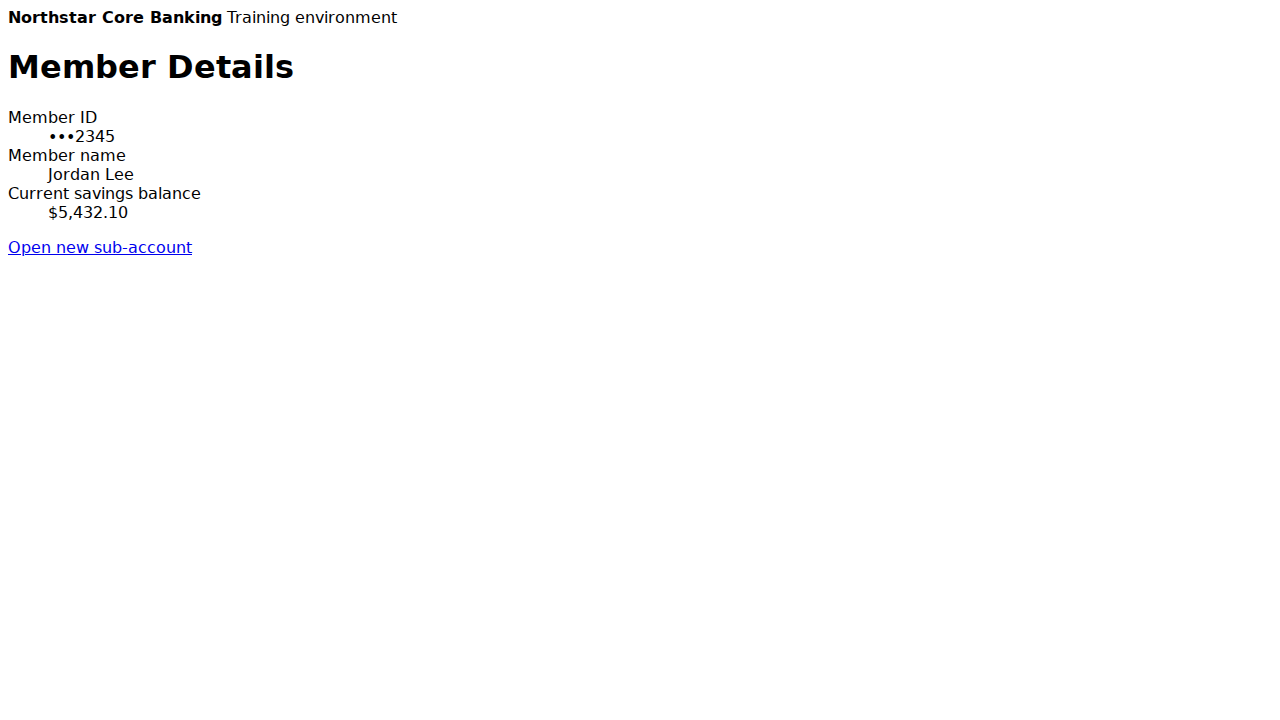
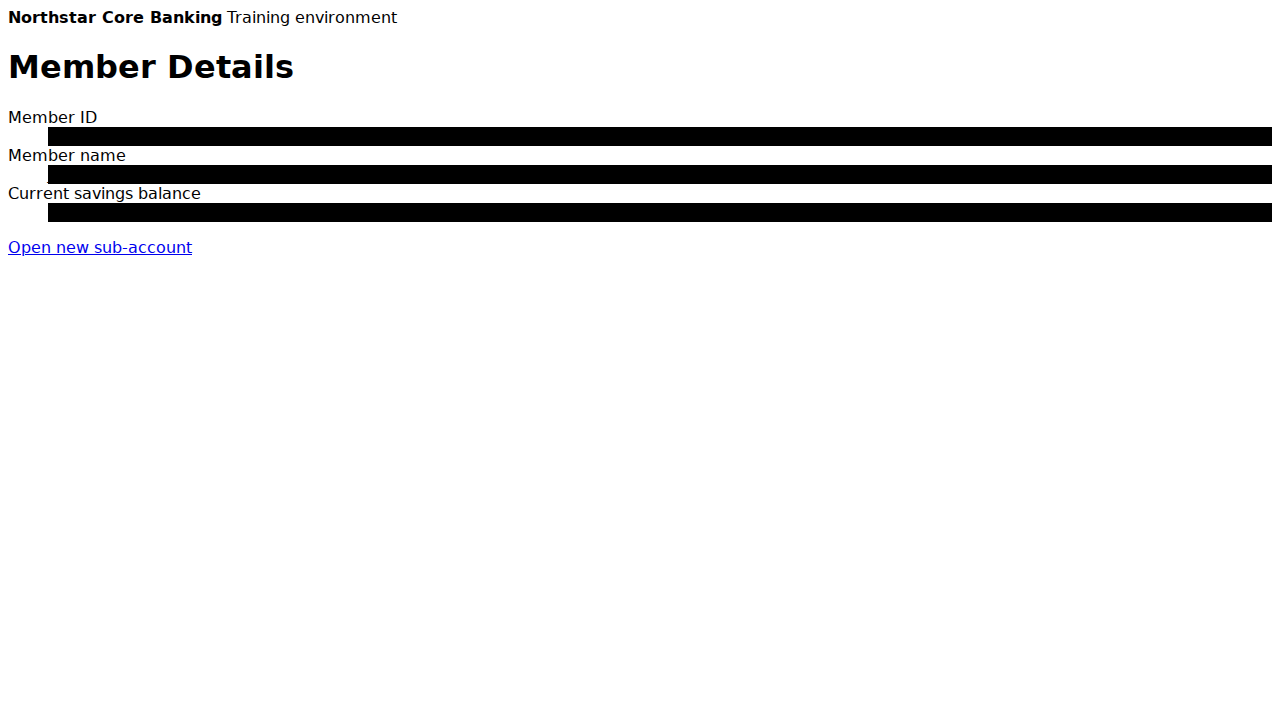
Tighten origin checks and evidence masking

Changed region(s): [[0.0312, 0.1528, 1.0, 0.3056]]

diff --git a/src/agent/execute.ts b/src/agent/execute.ts
@@ -1,29 +1,37 @@
 import type { Page } from "playwright";
 import type { AgentDecision } from "./decide.js";
 
-const allowedOrigin = "http://127.0.0.1:4173";
-
 export async function executeDecision(
     page: Page,
     decision: AgentDecision,
+    allowedOrigin: string,
 ): Promise<void> {
     const currentOrigin = new URL(page.url()).origin;
 
     if (currentOrigin !== allowedOrigin) {
-        throw new Error(`Blocked page outside allowlist: ${currentOrigin}`);
+        throw new Error(
+            `Blocked page outside allowlist: ${currentOrigin}`,
+        );
     }
 
-    if (decision.type === "finish" || decision.type === "escalate") {
+    if (
+        decision.type === "finish" ||
+        decision.type === "escalate"
+    ) {
         return;
     }
 
     if (!decision.target) {
-        throw new Error(`${decision.type} requires a target`);
+        throw new Error(
+            `${decision.type} requires a target`,
+        );
     }
 
     if (decision.type === "fill") {
         if (decision.target.role !== "textbox") {
-            throw new Error("Fill is allowed only on textboxes");
+            throw new Error(
+                "Fill is allowed only on textboxes",
+            );
         }
 
         if (decision.value === null) {
@@ -44,11 +52,18 @@ export async function executeDecision(
         decision.target.role !== "button" &&
         decision.target.role !== "link"
     ) {
-        throw new Error("Click is allowed only on buttons and links");
+        throw new Error(
+            "Click is allowed only on buttons and links",
+        );
     }
 
-    if (decision.target.name === "Open new sub-account") {
-        throw new Error("Blocked risky action: human approval required");
+    if (
+        decision.target.name ===
+        "Open new sub-account"
+    ) {
+        throw new Error(
+            "Blocked risky action: human approval required",
+        );
     }
 
     await page

diff --git a/src/decision-check.ts b/src/decision-check.ts
@@ -6,6 +6,13 @@ import { executeDecision } from "./agent/execute.js";
 
 loadEnvFile();
 
+const targetUrl =
+    process.env.TARGET_URL ??
+    "http://127.0.0.1:4173";
+
+const allowedOrigin =
+    new URL(targetUrl).origin;
+
 const browser = await chromium.launch({
     headless: true,
 });
@@ -13,7 +20,7 @@ const browser = await chromium.launch({
 const page = await browser.newPage();
 
 try {
-    await page.goto("http://127.0.0.1:4173", {
+    await page.goto(targetUrl, {
         waitUntil: "domcontentloaded",
     });
 
@@ -26,11 +33,20 @@ try {
     );
 
     console.log("Model chose:");
-    console.log(JSON.stringify(decision, null, 2));
+    console.log(
+        JSON.stringify(decision, null, 2),
+    );
 
-    await executeDecision(page, decision);
+    await executeDecision(
+        page,
+        decision,
+        allowedOrigin,
+    );
 
-    if (decision.type === "fill" && decision.target) {
+    if (
+        decision.type === "fill" &&
+        decision.target
+    ) {
         const enteredValue = await page
             .getByRole("textbox", {
                 name: decision.target.name,

diff --git a/src/run-agent.ts b/src/run-agent.ts
@@ -26,6 +26,7 @@ const targetUrl =
     process.env.TARGET_URL ??
     "http://127.0.0.1:4173";
 
+const allowedOrigin = new URL(targetUrl).origin;
 const maximumSteps = 6;
 
 const previousActions: AgentDecision[] = [];
@@ -132,7 +133,7 @@ try {
             break;
         }
 
-        await executeDecision(page, decision);
+        await executeDecision(page, decision, allowedOrigin);
         previousActions.push(decision);
     }
 

diff --git a/src/run-handoff.ts b/src/run-handoff.ts
@@ -85,9 +85,14 @@ async function run(): Promise<void> {
         const screenshotPath =
             "evidence/handoff-request.png";
 
+        const sensitiveDetails =
+            page.locator("dd");
+
         await page.screenshot({
             path: screenshotPath,
             fullPage: true,
+            mask: [sensitiveDetails],
+            maskColor: "#000000",
         });
 
         const waitForResume = session.pause({
